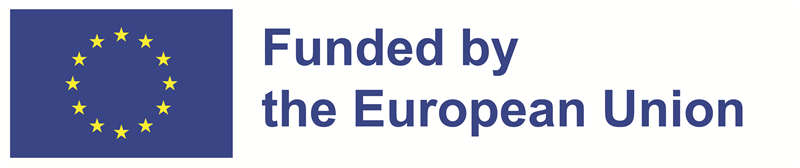
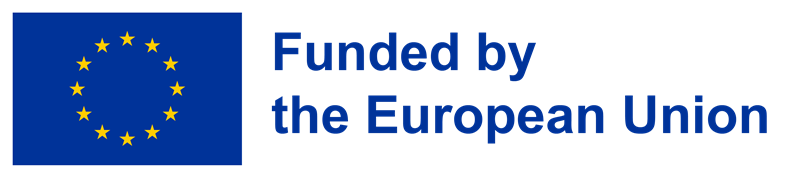
Add files via upload

diff --git a/src/assets/css/site.css b/src/assets/css/site.css
@@ -254,9 +254,7 @@ p { margin: 0 0 1em; }
 .site-foot { background: var(--paper); border-top: 2px solid var(--ink); margin-top: 2rem; font-size: var(--step--1); }
 .foot-grid { display: grid; grid-template-columns: 17rem minmax(0, 1.4fr) minmax(0, 1fr); gap: 2rem 3rem; padding-block: 2.5rem; }
 .eu-lockup { display: flex; align-items: center; gap: 0.9rem; align-self: start; }
-.eu-lockup img { width: 81px; height: 54px; flex: none; }
-.eu-lockup img.eu-funded-logo { width: 286px; height: auto; max-width: 100%; }
-.eu-funded { margin: 0; font-family: Arial, var(--sans); font-size: 1rem; line-height: 1.25; color: #000; max-width: 11rem; }
+.eu-funded-logo { display: block; width: auto; height: 60px; max-width: 100%; object-fit: contain; object-position: left; }
 .disclaimer { margin: 0; color: var(--muted); max-width: 60ch; }
 .foot-meta p { margin: 0 0 0.75rem; }
 .foot-links { display: flex; flex-wrap: wrap; gap: 0.5rem 1.25rem; }
